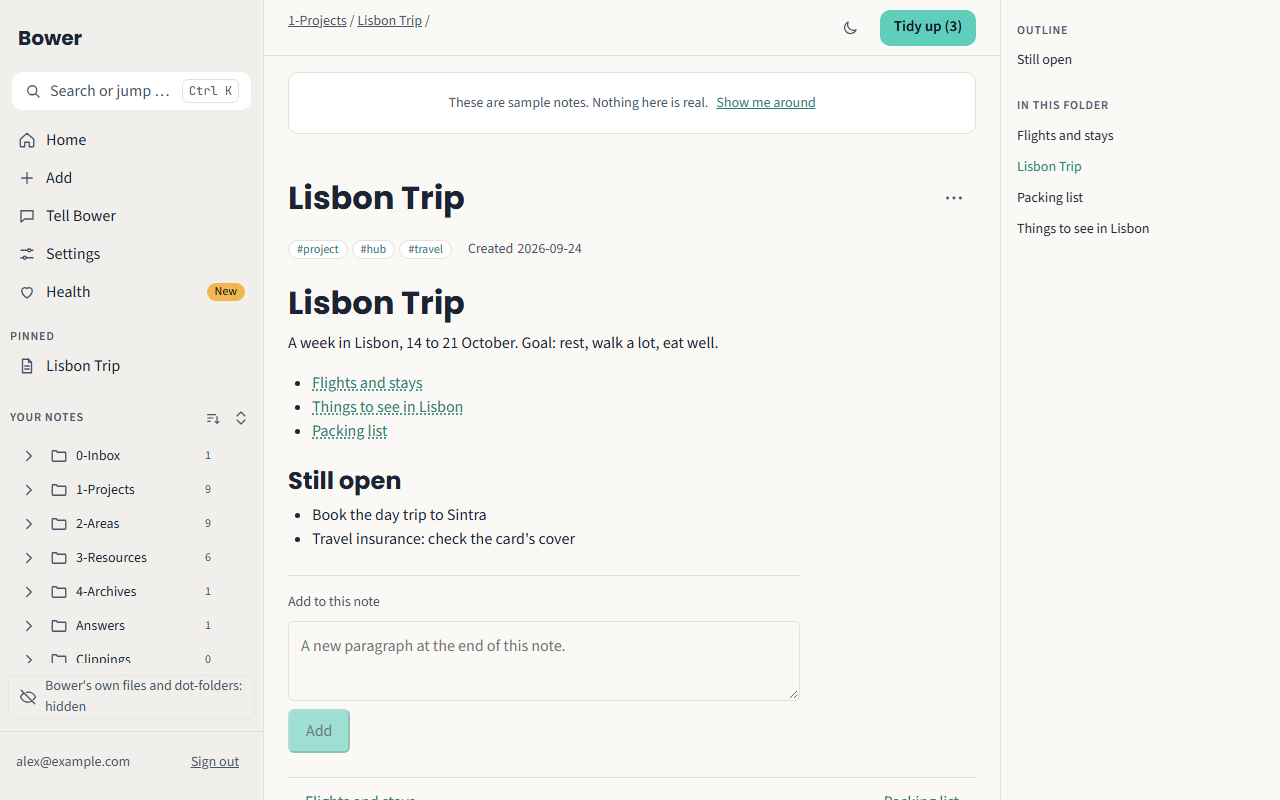
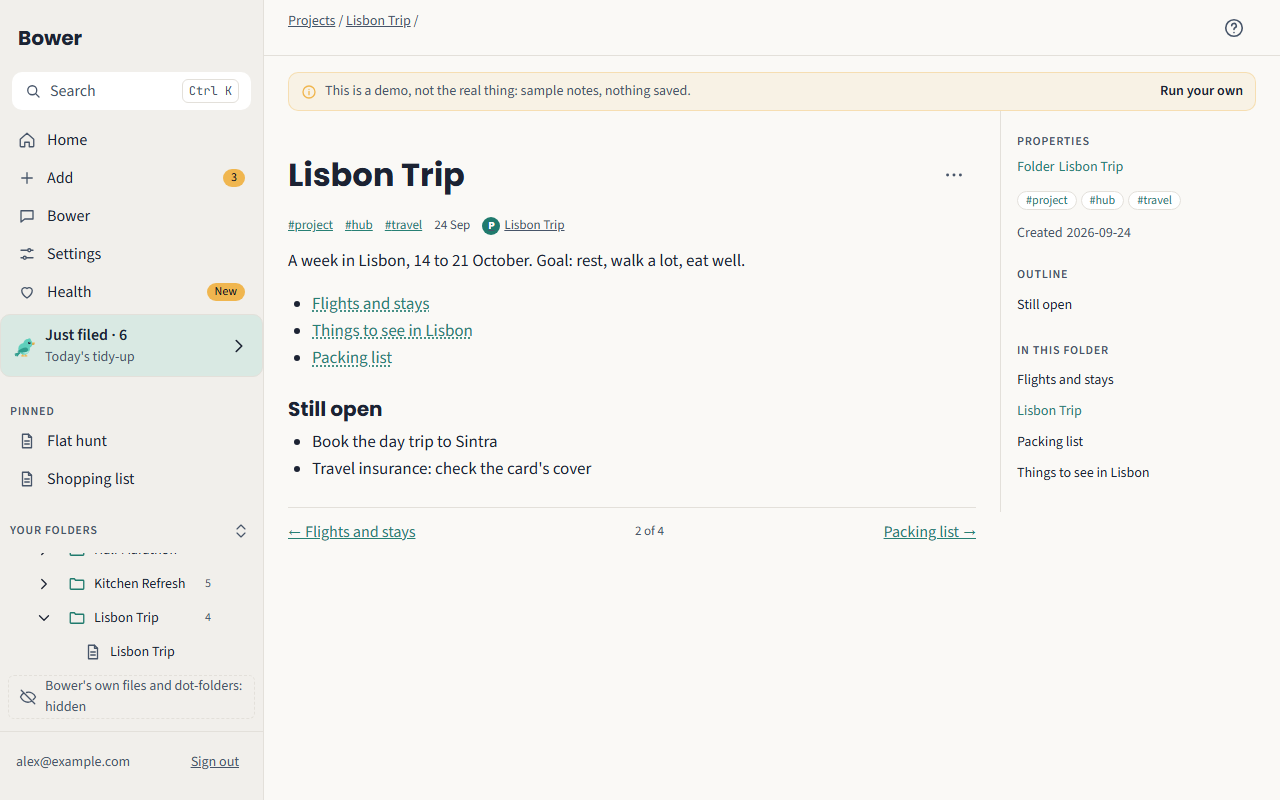
docs(readme): check the README against the code, new screenshots
Regenerate the screenshots with e2e:shots (bower.png replaces tell.png)
and match their alt texts. Correct How it works, What makes it
different, The app, the diagrams and Principles against main. The app
can append to and edit a note, so "Not an editor" becomes "Not a
writing app", in the table and the illustration. Say that rankings and
digests are asked for, add pandoc to the agent's stack, fix the docs
layout line, and name the three items still open before M34.

diff --git a/README.md b/README.md
@@ -16,13 +16,13 @@ Self-hosted, zero servers, 0 € a month.</p>
 
 <table align="center">
   <tr>
-    <td align="center"><img src="docs/assets/screenshots/home.png" alt="Home: the bird greets Alex, three things waiting in the inbox, pinned and recent notes." width="260"><br><sub>Home</sub></td>
-    <td align="center"><img src="docs/assets/screenshots/note.png" alt="A note opened from the quick switcher: Lisbon Trip." width="260"><br><sub>A note</sub></td>
-    <td align="center"><img src="docs/assets/screenshots/add.png" alt="Add: a file dropped into the inbox." width="260"><br><sub>Add</sub></td>
+    <td align="center"><img src="docs/assets/screenshots/home.png" alt="Home: the bird greets Alex, three things waiting in the inbox, the Inbox, Last tidy-up, Health and Notes cards, pinned and recent notes." width="260"><br><sub>Home</sub></td>
+    <td align="center"><img src="docs/assets/screenshots/note.png" alt="A note, Lisbon Trip: its tags, its links to the rest of the trip, what is still open, and an outline beside it." width="260"><br><sub>A note</sub></td>
+    <td align="center"><img src="docs/assets/screenshots/add.png" alt="Add: the drop zone the bird peeks over, a box to paste a link, a file waiting in the inbox and a box for saying what it is." width="260"><br><sub>Add</sub></td>
   </tr>
   <tr>
-    <td align="center"><img src="docs/assets/screenshots/tidy-up.png" alt="Tidying up, done: three files processed and the inbox empty." width="260"><br><sub>Tidy up</sub></td>
-    <td align="center"><img src="docs/assets/screenshots/tell.png" alt="The Bower tab: a request sent, waiting for the next tidy-up." width="260"><br><sub>The Bower tab</sub></td>
+    <td align="center"><img src="docs/assets/screenshots/tidy-up.png" alt="Tidying up, done: six files processed, the list of what was filed, and the inbox empty." width="260"><br><sub>Tidy up</sub></td>
+    <td align="center"><img src="docs/assets/screenshots/bower.png" alt="The Bower tab: a box for saying what you want, then Rules, Requests and Activity side by side." width="260"><br><sub>The Bower tab</sub></td>
     <td align="center"><img src="docs/assets/screenshots/settings.png" alt="Settings in the dark theme." width="260"><br><sub>Settings, dark</sub></td>
   </tr>
 </table>
@@ -41,7 +41,7 @@ That is the job Bower does for your notes. It collects what you throw at it (pho
 
 ## What it is, and what it is not
 
-<p align="center"><img src="docs/assets/is-and-is-not.svg" alt="Bower is: a window onto one folder of your Drive, a filer that reads what you save, a rulebook in plain English, one button. Bower is not: an editor, a place your things are stored, another app to move into, always watching." width="900"></p>
+<p align="center"><img src="docs/assets/is-and-is-not.svg" alt="Bower is: a window onto one folder of your Drive, a filer that reads what you save, a rulebook in plain English, one button. Bower is not: a writing app, a place your things are stored, another app to move into, always watching (only a weekly health check runs on its own)." width="900"></p>
 
 The details are in [What Bower is not](#what-bower-is-not), below.
 
@@ -53,7 +53,7 @@ The details are in [What Bower is not](#what-bower-is-not), below.
 2. **Tap Tidy up.** Nothing runs on a schedule. When you tap, the bird wakes up in the background and you carry on.
 3. **It reads enough to know what it is.** A receipt, a lease, a photo of a sign, a job offer.
 4. **It files it.** The original itself moves into the folder you told it to use, or, where you said nothing, where PARA says: a project if it has an end, an area if it is ongoing, a resource if it is reference, the archive when it is done. A name that says nothing (`IMG_4471.jpg`) becomes one that does; the folder's page and the index get one line each. No summary, no copy, no translation unless you ask.
-5. **It writes a note when there is something to write.** A web clip or a saved link becomes a note; a Word, OpenDocument, HTML, EPUB or RTF document gets a Markdown copy filed next to the original; and when you say what you want (**What is this?** on Add, or a rule), it does that too: a table, a summary, a translation. With **Let Bower look things up on the web** turned on in Settings, and allowed by whoever runs your Bower, it may search the web to fill in what a document leaves out.
+5. **It writes a note when there is something to write.** A web clip or a saved link becomes a note; a Word, OpenDocument, HTML, EPUB or RTF document gets a Markdown copy filed next to the original; a receipt, a booking, a job offer or another kind of document Bower knows gets a short note next to it with its key facts; and when you say what you want (**What is this?** on Add, or a rule), it does that too: a table, a summary, a translation. With **Let Bower look things up on the web** turned on in Settings, and allowed by whoever runs your Bower, it may search the web to fill in what a document leaves out.
 6. **It remembers and connects.** Ask once and it becomes a rule in your rulebook. Everything it keeps for you is one more thing it can join to the next: the job ad gets a commute from the flat you shortlisted.
 7. **Read it anywhere.** In the app, or in Obsidian on the same folder.
 
@@ -69,7 +69,9 @@ Filing is the half you see. The other half is that Bower **reads** what you save
 
 **One case per letter of PARA.** A **project**: flat hunting, every listing ranked and every job ad measured against the flats. An **area**: your health, each lab report filed and one table that shows what changed over the year. A **resource**: six articles on sourdough become one digest that says where they disagree. The **archive**: a finished trip filed away with what to remember, nothing deleted.
 
-**It remembers.** Ask once, in plain English, and it becomes a rule in your rulebook. **It joins the dots.** It tells you what you would not have noticed, and never what you already know.
+The ranking, the table and the digest are what you ask for, once; the filing and the note about each thing come on their own.
+
+**It remembers.** Ask once, in plain English, and it becomes a rule in your rulebook. **It joins the dots.** It adds what follows from your own notes, names the notes it used, and never guesses.
 
 ## What Bower is not
 
@@ -79,24 +81,24 @@ Bower is a window onto one folder of your own Google Drive. Everything else foll
 
 | | |
 | --- | --- |
-| **Not an editor** | It reads, files and writes notes for you. To write yourself, open the folder in Obsidian or any text editor; it is plain Markdown, and Bower picks up your changes on the next tidy-up. |
+| **Not a writing app** | You can add a line to a note or make a quick edit in the app, but it is made for reading. To write at length, open the folder in Obsidian or any text editor; it is plain Markdown, and Bower picks up your changes on the next tidy-up. |
 | **Not a place your things are stored** | Nothing of yours lives on a Bower server: the Worker keeps your sign-in and a pointer to the folder, never a note. The tidy-up runs on a temporary copy that is deleted when it ends. |
 | **Not the only way in** | The folder is plain Markdown in your Drive, so open it with anything: Obsidian as a vault, Google Docs, a file manager, your phone's Files app. They can add their own dot-folders (`.obsidian`, `.trash`); Bower hides those and never touches them, and reads your edits at the next tidy-up. |
 | **Not another app to move your life into** | No import, no export. It points at a folder in the Drive you already have. Delete the app and the folder, the notes and the rules are still there. |
 
 ## What makes it different
 
-<p align="center"><img src="docs/assets/strengths.svg" alt="Six strengths, each with the bird: your Drive and your notes, one button, a rulebook you can read, talk to it, works offline, 0 euros a month to run." width="900"></p>
+<p align="center"><img src="docs/assets/strengths.svg" alt="Six strengths, each with the bird: your Drive and your notes, one button, a rulebook you can read, talk to it, readable offline, 0 euros a month to run." width="900"></p>
 
 | | |
 | --- | --- |
 | **Your data, your account** | Notes are plain Markdown in your Drive. Delete the app and they are still there. |
 | **One button** | No inbox zero rituals. Add things all week, tap once. |
-| **A rulebook you can read** | The agent follows a `CLAUDE.md` in your folder, in plain English. Every rule you give it is written there, dated. |
-| **Talk to it** | In the Bower tab, type or say what you want: a rule, a task or a question. It waits in the inbox with everything else and is done at the next tidy-up. |
-| **Works offline** | The app is a PWA: your notes are cached, adding waits for signal. |
+| **A rulebook you can read** | The agent follows a `CLAUDE.md` in your folder, in plain English. Every rule you give it goes into `Rules.md` next to it, dated. |
+| **Talk to it** | In the Bower tab, type what you want: a rule, a job or a question. A rule is kept at once; a job or a question waits in the inbox with everything else and is done at the next tidy-up. |
+| **Works offline** | The app is a PWA: your notes are cached for reading; adding needs a connection. |
 | **0 € to run** | Cloudflare and GitHub free tiers; you bring a Claude subscription and a Drive. |
-| **A bird with a job** | The mascot is not decoration. It looks around when idle, peeks over the drop zone, sings while you type, carries papers to the nest while it works, and dances when it's done. |
+| **A bird with a job** | The mascot is not decoration. It looks around when idle, peeks over the drop zone, carries papers to the nest while it works, and dances when it's done. |
 
 ## The app
 
@@ -104,19 +106,19 @@ One explorer, on every screen size: on a computer it is the left column, on a ph
 
 | Screen | What you see |
 | --- | --- |
-| Home | The bird greets you and tells you what is waiting. After a tidy-up it says what it filed and links to **Just filed**. Inbox and Answers counts, recent notes with their key facts, one search field. |
+| Home | The bird greets you and tells you what is waiting. After a tidy-up it says what it filed and links to **Just filed**. An Inbox card with **Tidy up** and a Last tidy-up card (on a desktop, Health and Notes too), what you pinned, recent notes with their key facts. |
 | Notes | Your notes and files as one explorer: pinned things first, your folders below, **New** on what the last tidy-up filed and you have not opened yet. |
 | Just filed | What the last tidy-up did: each thing with the name it had, the name it has now and the folder it went to, what Bower set aside and why, and what it added. |
-| A folder | Rows with a small mark for what each is, sorted and filtered by kind, grouped by date. A file and the note Bower wrote about it sit side by side. Notes of one kind, such as receipts or bookings, can be **compared** in a table, or as cards on a phone. |
+| A folder | A list, or a grid of thumbnails, with a small mark for what each is, sorted and filtered by kind, grouped by date. A file and the note Bower wrote about it sit side by side. Hold one for a quick look without leaving the folder. Notes of one kind, such as receipts or bookings, can be **compared** in a table, or as cards on a phone. |
 | A note | Reading first: the title, the key facts, Bower's note as a callout that says where each line came from, and **Check** when it needs you. Previous and next in the folder; on a desktop, an outline and an About panel. |
 | A file | A PDF, a photo, a spreadsheet, a video: shown as Drive allows, with its facts (pages, sheets, what is in a ZIP) and the note Bower wrote about it. **Move to…** asks Bower to file it somewhere else, now or at the next tidy-up. |
 | Search | Groups, kind chips and a scope. On a desktop, two columns with a preview of the highlighted result. |
 | Add | A drop zone the bird peeks over, camera, paste-a-link, upload progress, and a box for saying what a file is. |
-| Bower | Tell Bower what you want in your own words. **Rules** lists every rule, grouped by topic; **Requests** what is waiting, being done or answered; **Activity** what each tidy-up did. The bird sings while you type. |
+| Bower | Tell Bower what you want in your own words: a rule is kept at once, a job or a question waits for the next tidy-up (or **Do it now**). **Rules** lists every rule, grouped by topic, and what Bower suggests; **Requests** what is waiting, being done or answered; **Activity** what each tidy-up did. On a wide screen the three sit side by side. |
 | Tidying up | A sheet with the inbox-to-nest scene, what has been filed and where. |
-| First run | The bird builds your Bower folder in front of you, then shows you around in three steps. Once per account. |
+| First run | The bird builds your Bower folder in front of you, asks four short questions you can skip, then shows you around in four steps. Once per account. |
 
-Still to come (issues #613 and #614): a grid view of a folder, a quick look at a file without leaving the list, and side-by-side panes on the desktop.
+On a desktop 1200 px wide or more, the explorer, the folder and a preview of the selected item sit side by side, with keyboard shortcuts.
 
 ## For engineers
 
@@ -136,12 +138,12 @@ flowchart LR
     Drive[("Your Google Drive folder")]
     Anthropic["Anthropic API"]
 
-    App -- "sign in, status, push" --> Worker
+    App -- "sign in, Tidy up, status, push" --> Worker
     App -- "read/write 0-Inbox, own token" --> Drive
-    Worker -- "repository_dispatch" --> Runner
+    Worker -- "repository_dispatch with a run ticket (Tidy up, or the weekly cron)" --> Runner
     Runner -- "rclone" --> Drive
     Runner -- "claude -p" --> Anthropic
-    Runner -- "status" --> Worker
+    Runner -- "Drive token, status (the ticket)" --> Worker
     Worker -. "web push" .-> App
 ```
 
@@ -156,12 +158,12 @@ sequenceDiagram
     participant Anthropic
     App->>Worker: POST /process
     Worker->>Actions: repository_dispatch (with this run's ticket)
-    Actions->>Worker: GET /runner/vaults/:id (the ticket)
+    Actions->>Worker: GET /runner/vaults/:id (Bearer the ticket): a 1 h Drive token
     Actions->>Drive: rclone sync down
     Actions->>Anthropic: claude -p, following the folder's CLAUDE.md
     Anthropic-->>Actions: organised notes
     Actions->>Drive: rclone copy up
-    Actions->>Worker: POST /runner/vaults/:id/status
+    Actions->>Worker: POST /runner/vaults/:id/status (the ticket)
     Worker-->>App: web push
 ```
 
@@ -178,7 +180,7 @@ What happens after the agent has filed, in the order it runs (details in `docs/r
 | --- | --- | --- |
 | `app/` | Preact + Vite + TypeScript, a service worker for the shell cache, share target and push | Cloudflare Pages (free), in your browser |
 | `api/` | Hono + KV + Web Crypto | Cloudflare Workers + KV (free) |
-| `agent/` | Bash (`run.sh`) + rclone + the Claude Code CLI | GitHub Actions of the operator's own private instance repo (free tier) |
+| `agent/` | Bash (`run.sh`) + rclone + pandoc + the Claude Code CLI | GitHub Actions of the operator's own private instance repo (free tier) |
 | `vault-template/` | Markdown notes and a `CLAUDE.md` rulebook | Copied into each user's Google Drive on first sign-in |
 
 ### Principles
@@ -186,8 +188,8 @@ What happens after the agent has filed, in the order it runs (details in `docs/r
 - **The folder is the only state.** Your Drive holds every note; the Worker keeps credentials and pointers, never content; the runner keeps nothing once a run ends.
 - **Cost first.** Free tiers only, no servers, no database of note content; a dependency that would break this needs a decision entry first (`docs/decisions.md`).
 - **No personal data, ever.** Not in code, tests, fixtures, docs or commits, enforced by a CI grep gate (`scripts/check-sanitized.sh`).
-- **Rules are data.** The agent's behaviour lives in the folder's own `CLAUDE.md`, changed only through a dated instruction note; it never edits its own rules unasked.
-- **On demand, never scheduled.** A tidy-up runs when you tap. The only scheduled job is a weekly health check that reports and never moves a file.
+- **Rules are data.** The agent's behaviour lives in the folder's own `CLAUDE.md` and your `Rules.md`. Your rules change only when you ask, from the Bower tab or a note, or accept a suggestion; the agent never edits its own rules unasked.
+- **On demand, never scheduled.** A tidy-up runs when you tap. The only scheduled job is a weekly health check, started by the Worker's own cron trigger, that makes only safe mechanical fixes, reports, and never moves a file.
 
 Full module map, data flows, credentials and threat model: [`ARCHITECTURE.md`](ARCHITECTURE.md).
 
@@ -210,7 +212,7 @@ app/             PWA (Vite + Preact + TS)            → Cloudflare Pages
 api/             Worker (Hono + KV + Web Crypto)     → Cloudflare Workers
 agent/           run.sh, prompts/, workflows/         → operator's private instance repo (GitHub Actions)
 vault-template/  the folder every user starts from    → copied into the user's Drive
-docs/            runbook, decisions, brand, design, testing
+docs/            runbook, decisions, brand, security, testing
 scripts/         deploy.sh, new-instance.sh, checks
 ```
 
@@ -226,7 +228,7 @@ Full walkthrough: [`docs/runbook.md`](docs/runbook.md). Short version, driven mo
 
 ## Status
 
-Shipped: M1 to M33, from the first API to the explorer and the file views.
+Shipped: M1 to M33, from the first API to the explorer and the file views. Still open from those: an external dry run of the deploy docs (#48), semantic search (#51) and linked mentions (#150).
 
 Next, v5 (milestones M34 to M46, planned in [`PLAN.md`](PLAN.md) from the spec [`docs/superpowers/plans/2026-09-29-runs-notes-folders-spec.md`](docs/superpowers/plans/2026-09-29-runs-notes-folders-spec.md)):
 
